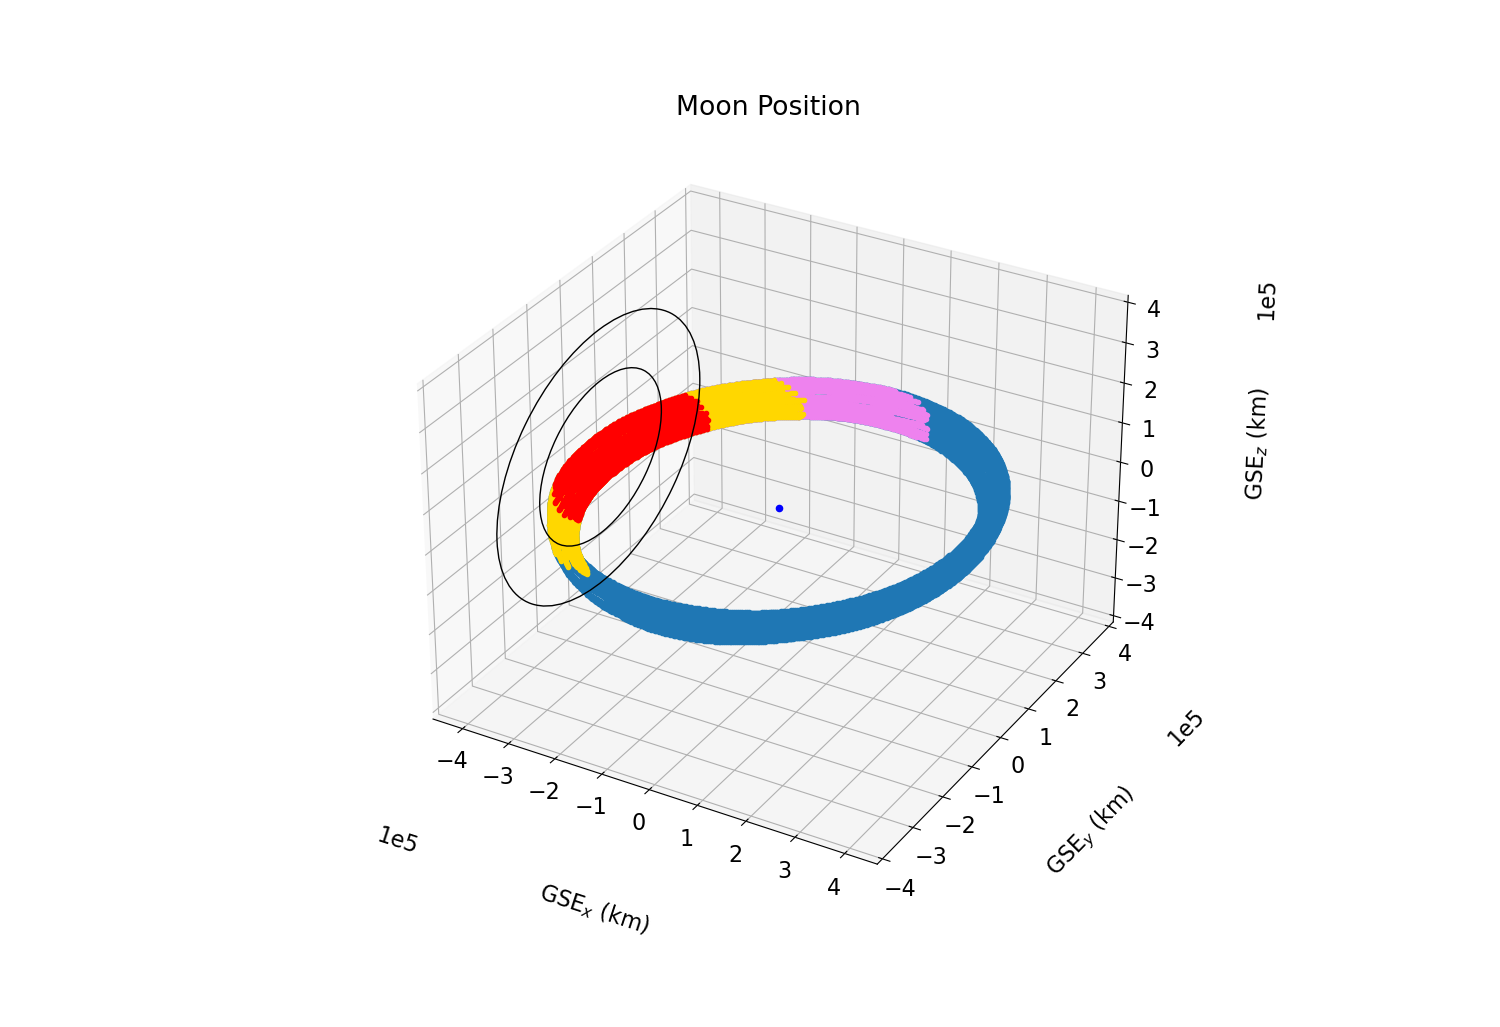
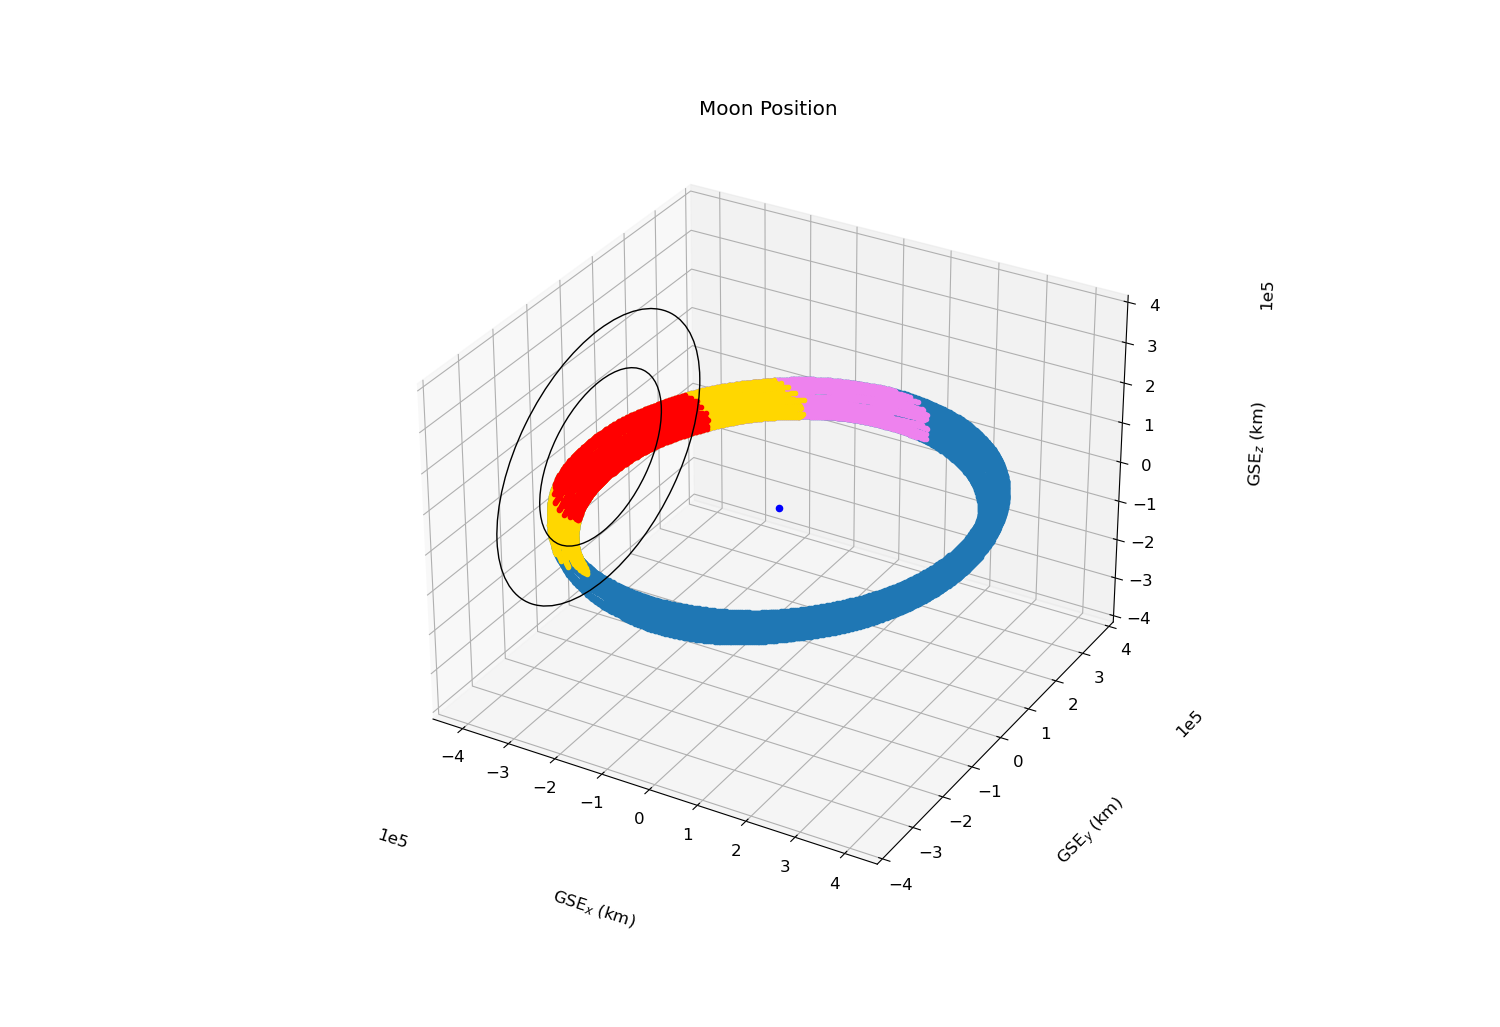
changed font size on fig

diff --git a/main.py b/main.py
@@ -62,7 +62,7 @@ def main(start_date, end_date):
 
 
     #make the moon orbit plot
-    plt.rcParams.update({'font.size': 16})
+    plt.rcParams.update({'font.size': 12})
 
     R = 30 * 6378 #km #radius of the magnetotail
     R_bow = 50 * 6378 #km #radius of the bowshock
